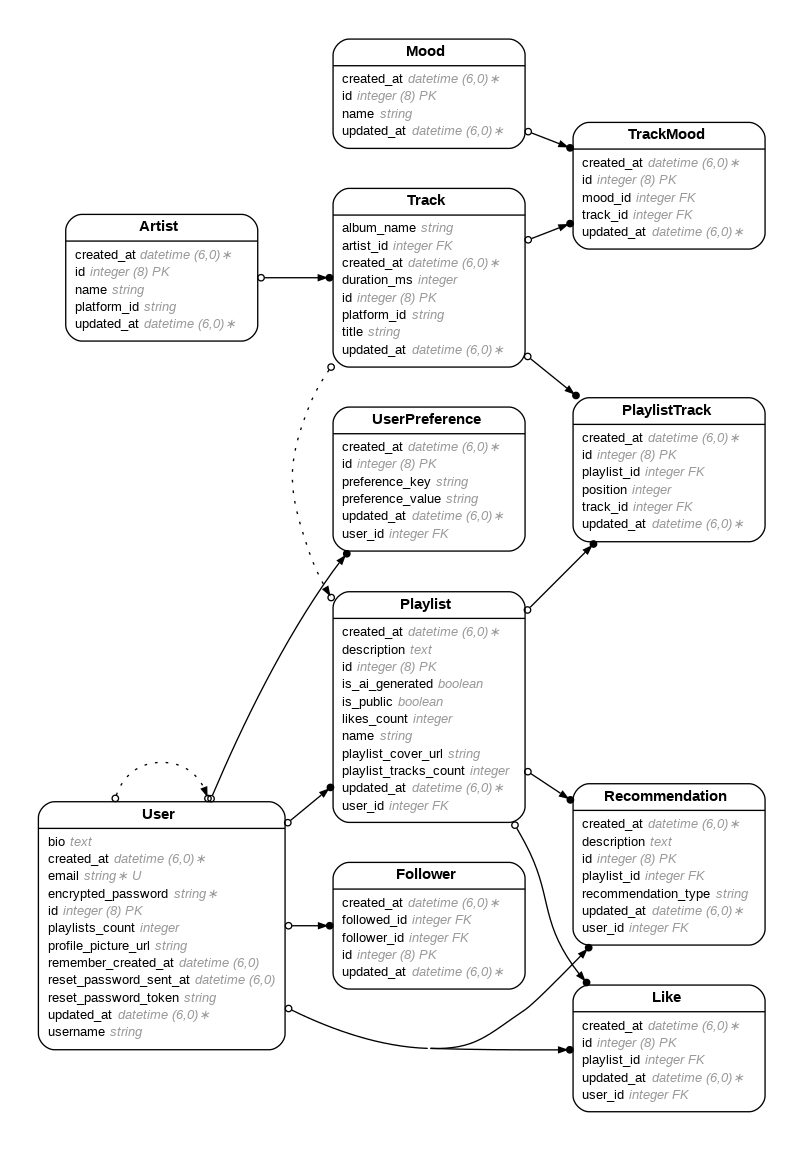
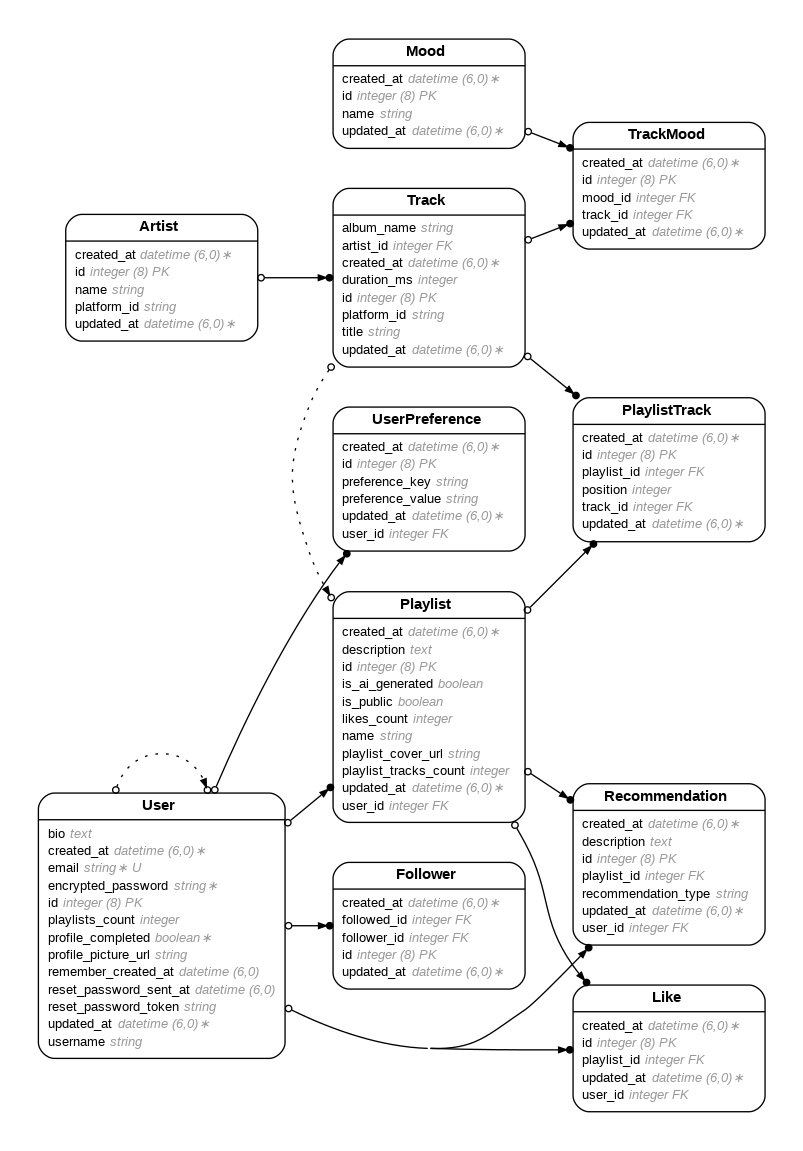
The profile configuration basics are finally working

Changed region(s): [[0.0311, 0.669, 0.3425, 0.9123]]

diff --git a/db/schema.rb b/db/schema.rb
@@ -10,7 +10,7 @@
 #
 # It's strongly recommended that you check this file into your version control system.
 
-ActiveRecord::Schema[7.1].define(version: 2024_11_25_185207) do
+ActiveRecord::Schema[7.1].define(version: 2024_11_27_032715) do
   # These are extensions that must be enabled in order to support this database
   enable_extension "plpgsql"
 
@@ -108,6 +108,7 @@ ActiveRecord::Schema[7.1].define(version: 2024_11_25_185207) do
     t.integer "playlists_count"
     t.datetime "created_at", null: false
     t.datetime "updated_at", null: false
+    t.boolean "profile_completed", default: false, null: false
     t.index ["email"], name: "index_users_on_email", unique: true
     t.index ["reset_password_token"], name: "index_users_on_reset_password_token", unique: true
   end

diff --git a/app/controllers/home_controller.rb b/app/controllers/home_controller.rb
@@ -2,11 +2,16 @@ class HomeController < ApplicationController
   before_action :authenticate_user!, only: [:dashboard]
 
   def index
-    # Publicly accessible
-    render({ :template => "home/home"})
+    # Redirect to profile configuration if the user's profile is incomplete
+    if user_signed_in? && !current_user.profile_completed?
+      redirect_to profile_configuration_path, alert: "Please complete your profile to continue."
+    else
+      render({ template: "home/home" })
+    end
   end
 
   def dashboard
-    # Only accessible to logged-in users
+    # Accessible only to logged-in users with a completed profile
+    render({ template: "home/dashboard" })
   end
 end

diff --git a/app/controllers/users_controller.rb b/app/controllers/users_controller.rb
@@ -1,0 +1,22 @@
+class UsersController < ApplicationController
+  before_action :authenticate_user!
+
+  def profile_configuration
+    @user = current_user
+  end
+
+  def update_profile
+    @user = current_user
+    if @user.update(user_params.merge(profile_completed: true))
+      redirect_to root_path, notice: "Profile updated successfully!"
+    else
+      render :profile_configuration, alert: "Error updating profile."
+    end
+  end
+
+  private
+
+  def user_params
+    params.require(:user).permit(:username, :bio, :profile_picture_url)
+  end
+end

diff --git a/app/models/user.rb b/app/models/user.rb
@@ -7,6 +7,7 @@
 #  email                  :string           default(""), not null
 #  encrypted_password     :string           default(""), not null
 #  playlists_count        :integer
+#  profile_completed      :boolean          default(FALSE), not null
 #  profile_picture_url    :string
 #  remember_created_at    :datetime
 #  reset_password_sent_at :datetime

diff --git a/config/routes.rb b/config/routes.rb
@@ -1,6 +1,9 @@
 Rails.application.routes.draw do
   root to: "home#home"  
 
+  get("/profile_configuration", { :controller => "users", :action => "profile_configuration" })
+  post("/profile_configuration", { :controller => "users", :action => "update_profile" })
+
   # Routes for the Track mood resource:
 
   # CREATE

diff --git a/db/migrate/20241127032715_add_profile_completed_to_users.rb b/db/migrate/20241127032715_add_profile_completed_to_users.rb
@@ -1,0 +1,5 @@
+class AddProfileCompletedToUsers < ActiveRecord::Migration[7.1]
+  def change
+    add_column :users, :profile_completed, :boolean, default: false, null: false
+  end
+end
